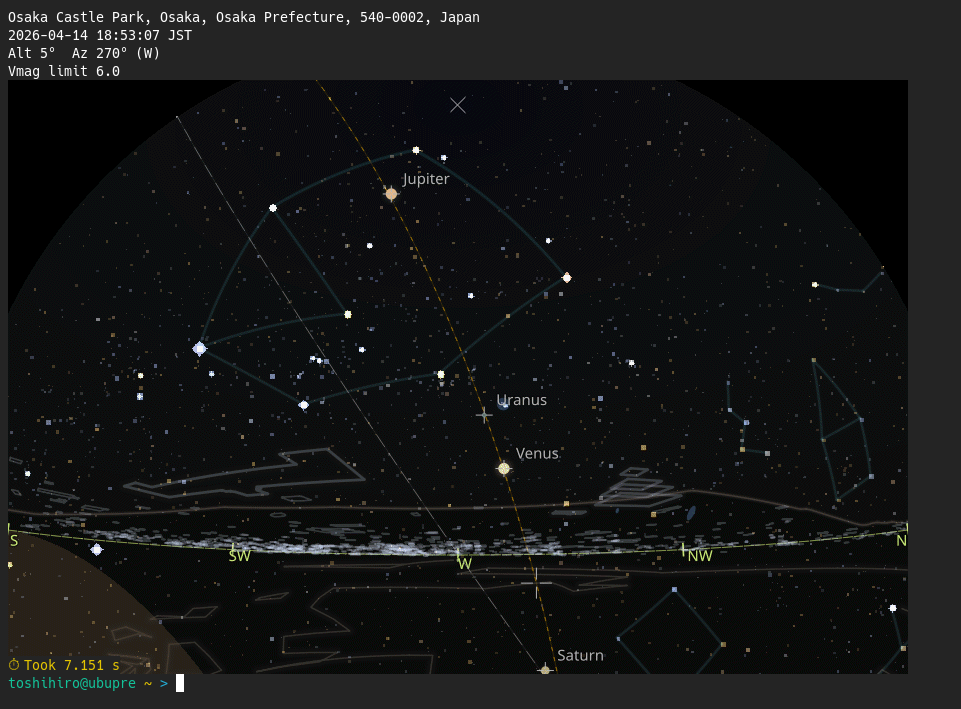
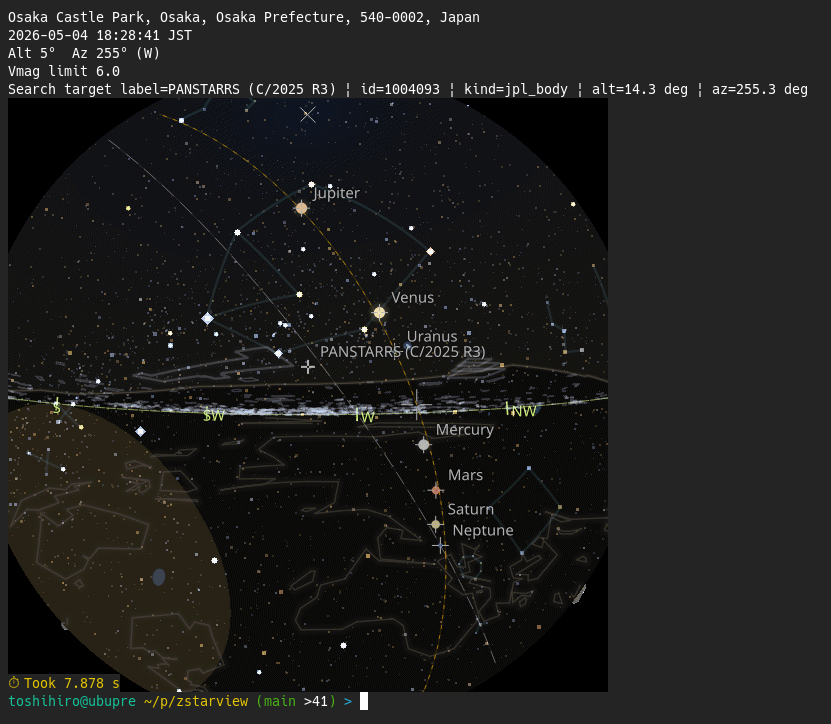
docs: update screenshot6 example
- Reword README captions for the PANSTARRS search example
- Include the updated screenshot6 asset
- Record the documentation update in dev-notes

diff --git a/README_pypi.md b/README_pypi.md
@@ -11,7 +11,7 @@ Locations can be set by city or viewpoint name, direct coordinates, online place
 The first screenshot shows the asterism overlay and also serves as a terrain-horizon example.
 The second screenshot shows the aircraft overlay together with the never-rises region.
 The third screenshot shows a denser star field rendered with `-V10.5 -s4.5`.
-The fourth screenshot shows terminal output via sixel using `zstarview-export-image`.
+The fourth screenshot shows `zstarview-export-image` searching for and displaying `PANSTARRS (C/2026 R3)` in a sixel terminal.
 
 <p align="center">
   <img src="https://raw.githubusercontent.com/tos-kamiya/zstarview/main/docs/images/screenshot1.png" width="49%" alt="Screenshot showing the asterism overlay and a terrain horizon example">
@@ -20,7 +20,7 @@ The fourth screenshot shows terminal output via sixel using `zstarview-export-im
 
 <p align="center">
   <img src="https://raw.githubusercontent.com/tos-kamiya/zstarview/main/docs/images/screenshot3.png" width="49%" alt="Screenshot showing a denser star field rendered with -V10.5 -s4.5">
-  <img src="https://raw.githubusercontent.com/tos-kamiya/zstarview/main/docs/images/screenshot6.png" width="49%" alt="Screenshot showing sixel terminal output from zstarview-export-image">
+  <img src="https://raw.githubusercontent.com/tos-kamiya/zstarview/main/docs/images/screenshot6.png" width="49%" alt="Screenshot showing zstarview-export-image searching for and displaying PANSTARRS (C/2026 R3) in a sixel terminal">
 </p>
 
 Note: higher magnitude limits increase rendering time. See [about magnitude limit](https://github.com/tos-kamiya/zstarview#about-magnitude-limit).

diff --git a/README.md b/README.md
@@ -31,7 +31,7 @@ Locations can be set by city or viewpoint name, direct coordinates, online place
 The first screenshot shows the asterism overlay and also serves as a terrain-horizon example.
 The second screenshot shows the aircraft overlay together with the never-rises region.
 The third screenshot shows a denser star field rendered with `-V10.5 -s4.5`.
-The fourth screenshot shows terminal output via sixel using `zstarview-export-image`.
+The fourth screenshot shows `zstarview-export-image` searching for and displaying `PANSTARRS (C/2026 R3)` in a sixel terminal.
 
   <p align="center">
     <img src="docs/images/screenshot1.png" alt="Screenshot showing the asterism overlay and a terrain horizon example" width="49%" />
@@ -40,7 +40,7 @@ The fourth screenshot shows terminal output via sixel using `zstarview-export-im
 
   <p align="center">
     <img src="docs/images/screenshot3.png" alt="Screenshot showing a denser star field rendered with -V10.5 -s4.5" width="49%" />
-    <img src="docs/images/screenshot6.png" alt="Screenshot showing sixel terminal output from zstarview-export-image" width="49%" />
+    <img src="docs/images/screenshot6.png" alt="Screenshot showing zstarview-export-image searching for and displaying PANSTARRS (C/2026 R3) in a sixel terminal" width="49%" />
   </p>
 
 Note: higher magnitude limits increase rendering time. See [about magnitude limit](#about-magnitude-limit).

diff --git a/README_ja-JP.md b/README_ja-JP.md
@@ -30,7 +30,7 @@
 1枚目の画像は、アステリズム表示と地形地平線の例を示しています。
 2枚目の画像は、航空機オーバレイと昇らない領域を示しています。
 3枚目の画像は、`-V10.5 -s4.5` でより高密度に星を描画した例です。
-4枚目の画像は、`zstarview-export-image` による sixel 端末出力の例です。
+4枚目の画像は、`zstarview-export-image` で `PANSTARRS (C/2026 R3)` を検索して sixel 端末に表示した例です。
 
   <p align="center">
     <img src="docs/images/screenshot1.png" alt="アステリズム表示と地形地平線の例を示すスクリーンショット" width="49%" />
@@ -39,7 +39,7 @@
 
   <p align="center">
     <img src="docs/images/screenshot3.png" alt="-V10.5 -s4.5 で高密度な星空を描画したスクリーンショット" width="49%" />
-    <img src="docs/images/screenshot6.png" alt="zstarview-export-image による sixel 端末出力のスクリーンショット" width="49%" />
+    <img src="docs/images/screenshot6.png" alt="`zstarview-export-image` で `PANSTARRS (C/2026 R3)` を検索して sixel 端末に表示したスクリーンショット" width="49%" />
   </p>
 
 注意: 等級上限を大きくすると描画時間も増えます。[等級上限オプションについて](#about-magnitude-limit) も参照してください。

diff --git a/dev-notes/session-2026-04-19.md b/dev-notes/session-2026-04-19.md
@@ -88,6 +88,10 @@
   - Decision: Include the resolved `--search` target in the export-image terminal summary as an extra `stderr` line, alongside the existing location/time/view/vmag metadata.
   - Rationale: The headless export already resolves the target for view centering and overlay rendering; surfacing the selected target in terminal output makes the result explicit without changing the image payload or the list-only search mode.
 
+- Topic: Screenshot6 README caption
+  - Decision: Update the screenshot6 caption and alt text to describe the `PANSTARRS (C/2026 R3)` search-and-display example rendered by `zstarview-export-image`.
+  - Rationale: The image content now documents a concrete `--search` workflow rather than a generic sixel export, so the README copy should match the current screenshot contents.
+
 - Topic: Version bump
   - Decision: Bump the package version from `1.20.6` to `1.20.7`.
   - Rationale: This is a patch-level release after the export-image search summary change.
